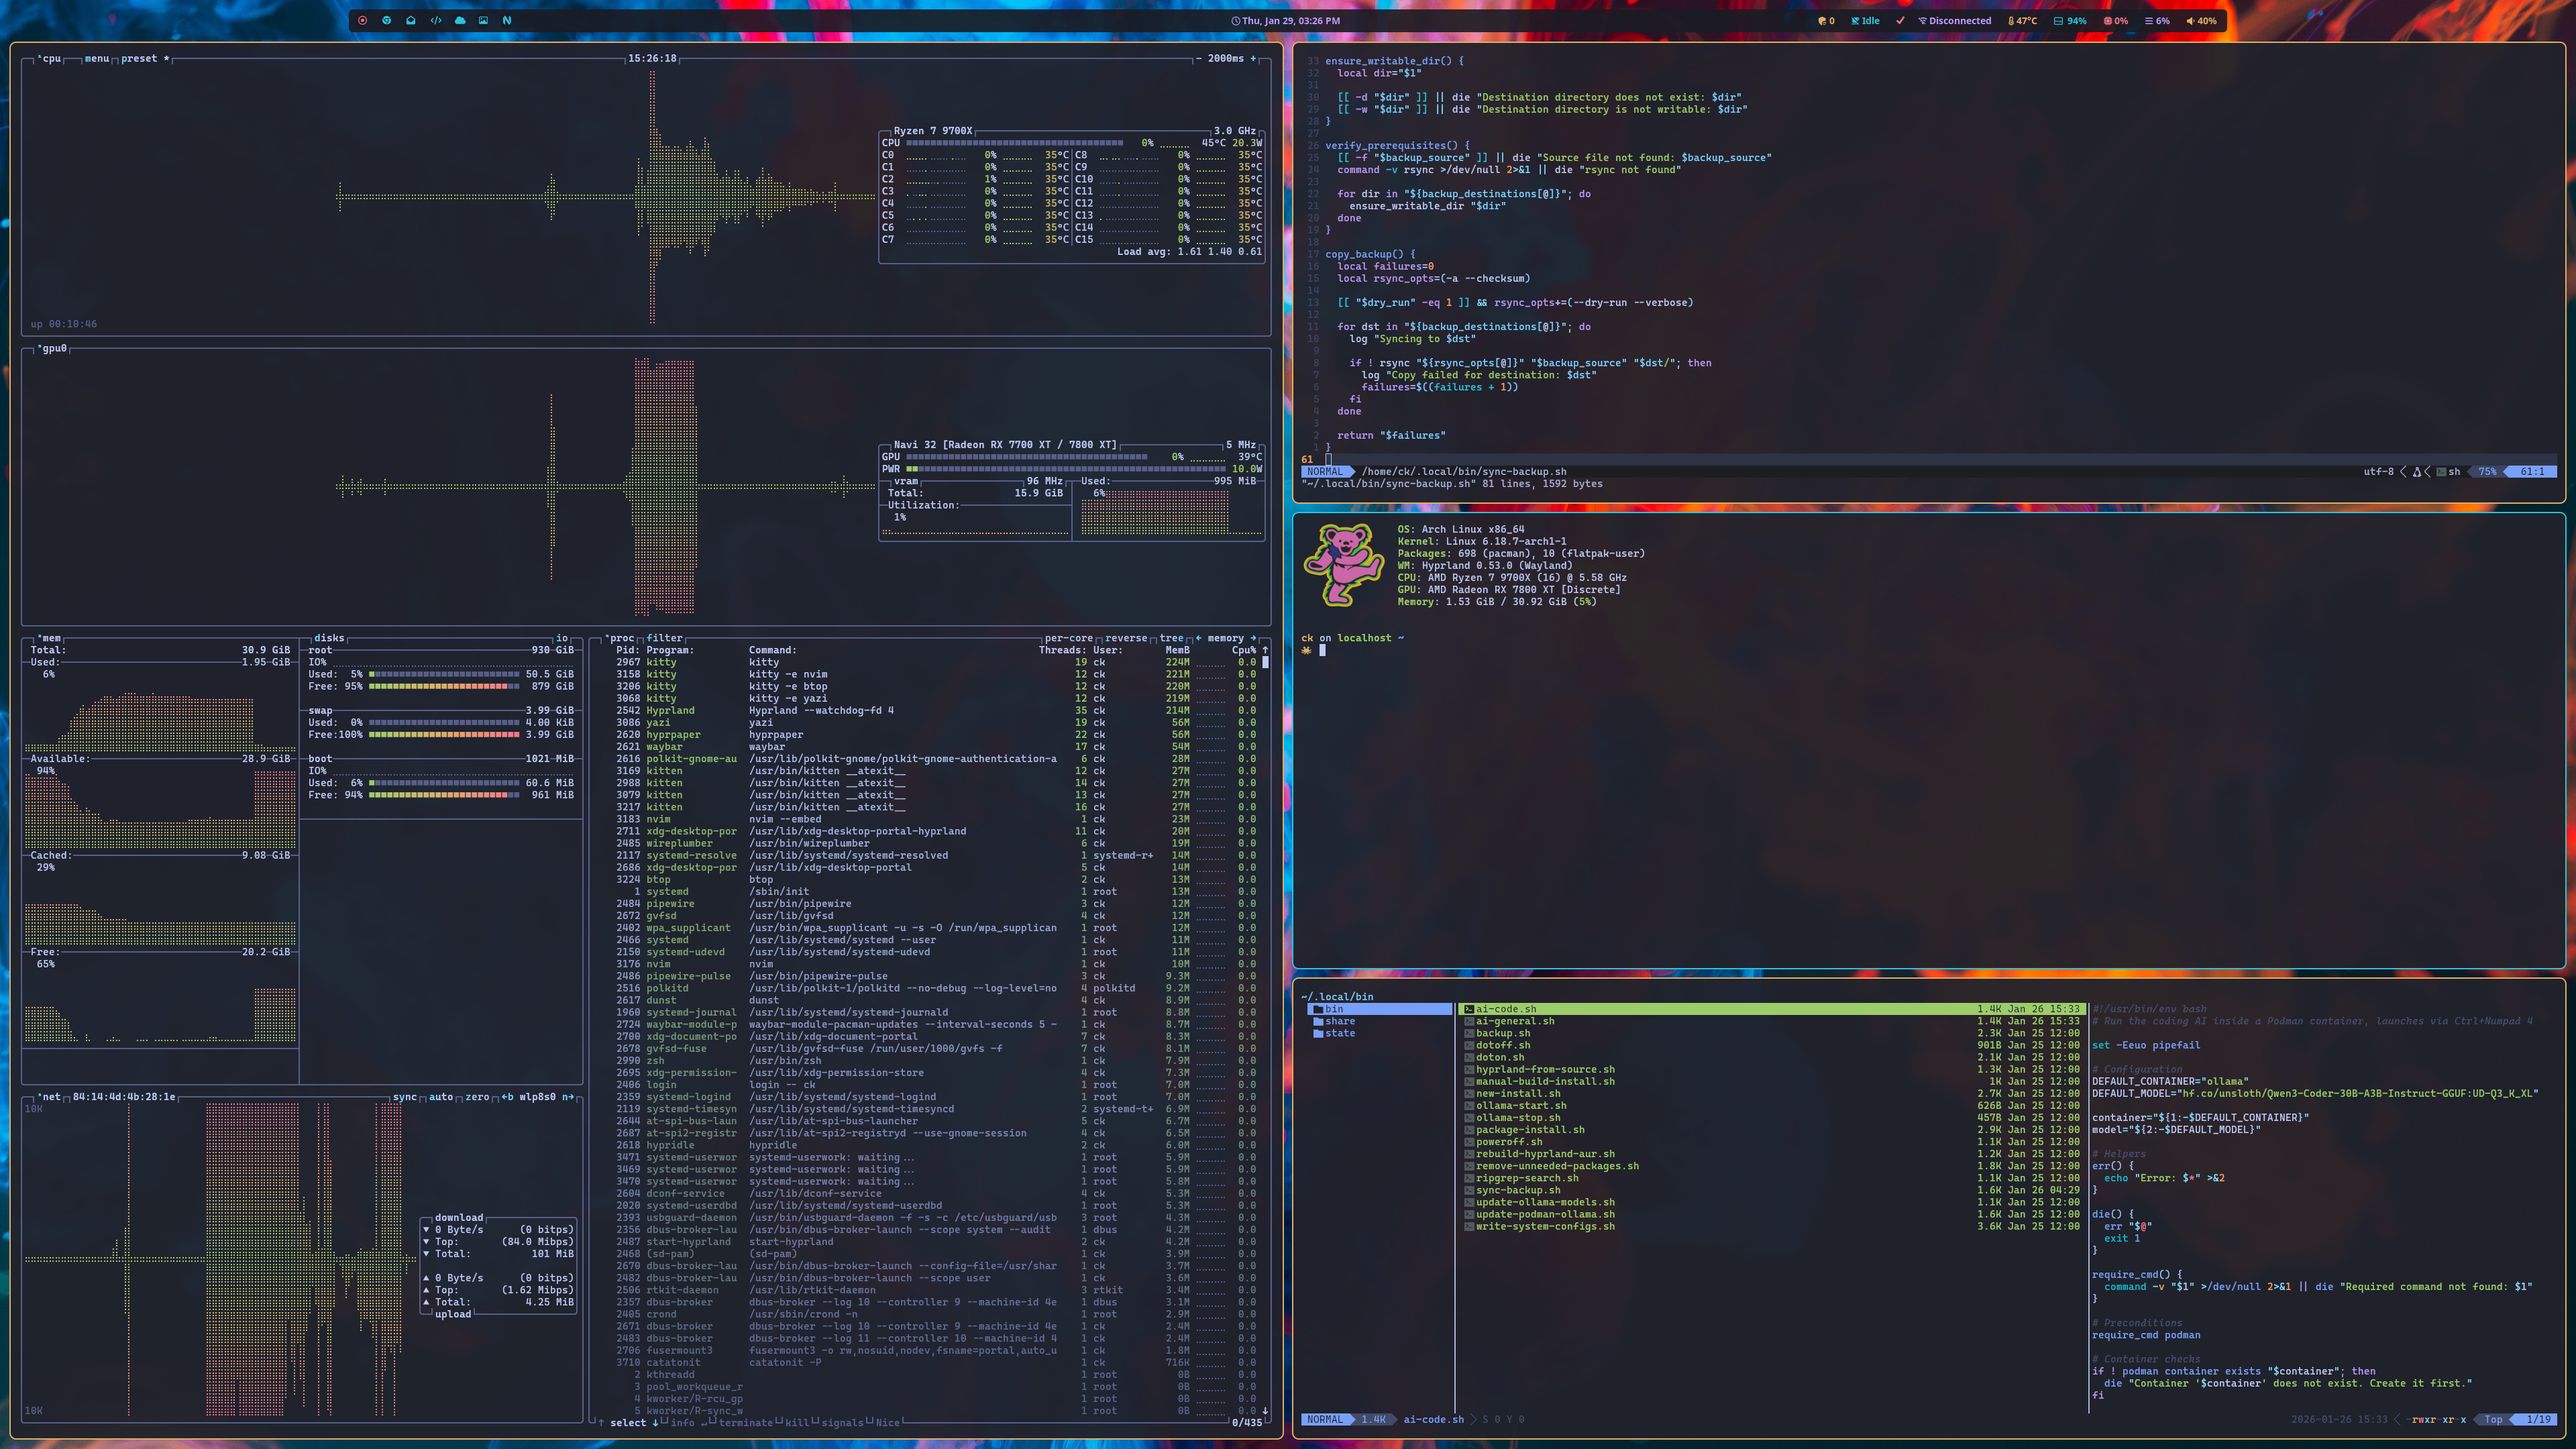
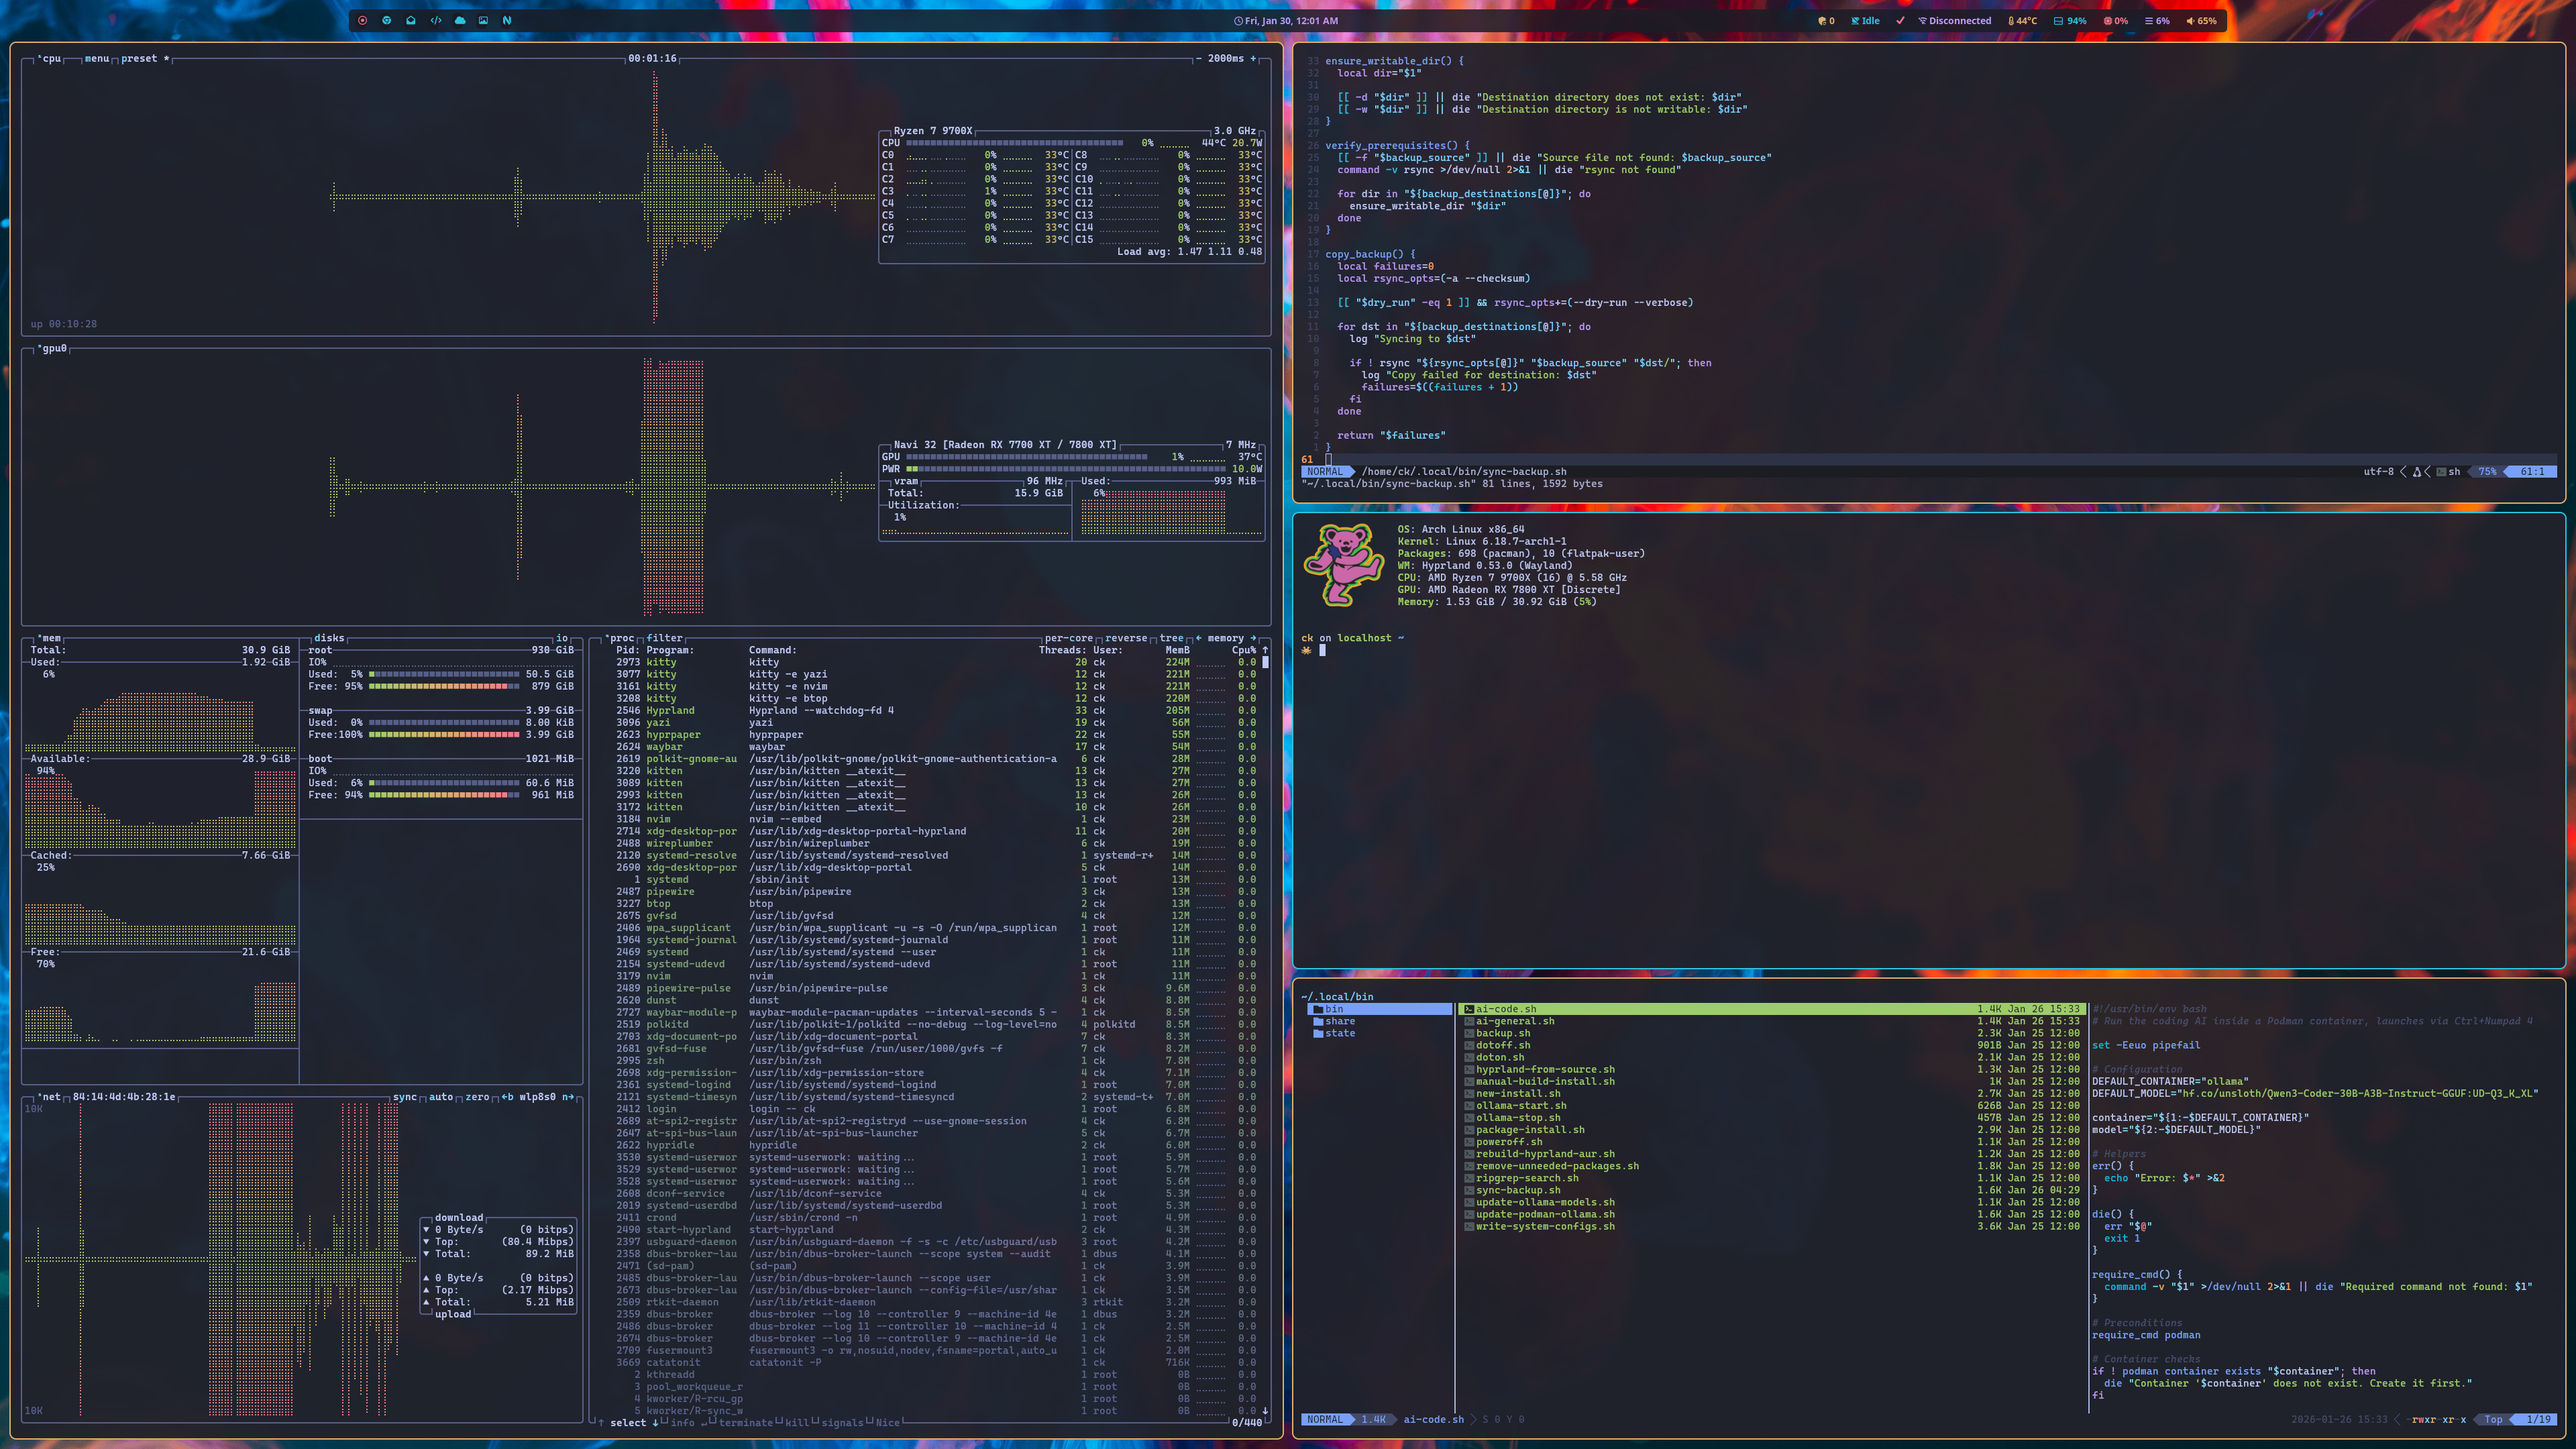
blur waybar

Changed region(s): [[0.25, 0.8375, 0.4062, 0.9306], [0.25, 0.6514, 0.4062, 0.7134], [0.25, 0.7444, 0.375, 0.7755]]

diff --git a/.config/waybar/style.css b/.config/waybar/style.css
@@ -8,7 +8,7 @@
 }
 
 window#waybar {  
-  background: rgba(26, 27, 35, .90);
+  background: rgba(26, 27, 35, .83);
 }
 
 tooltip {
